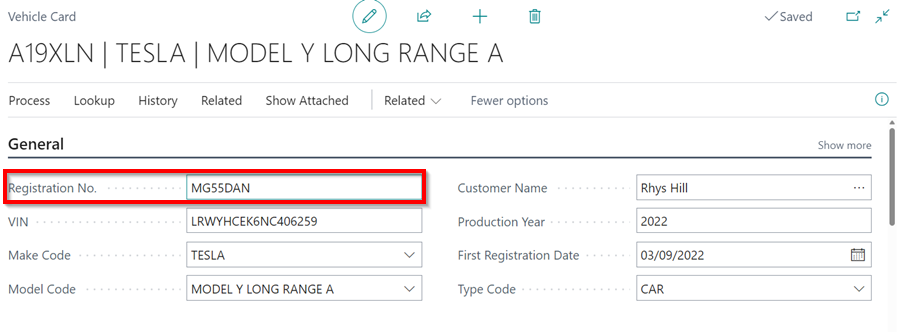
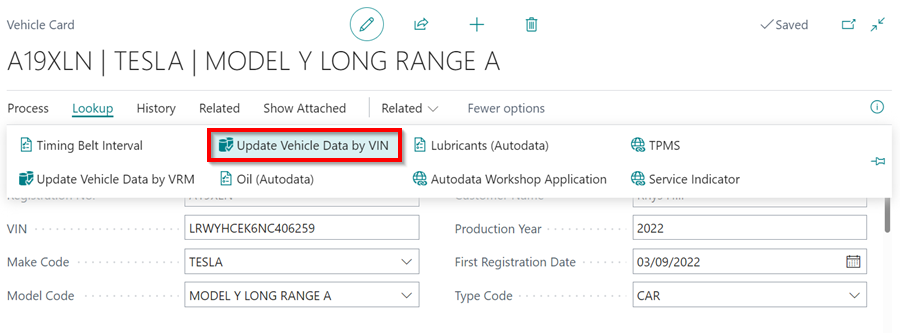
docs updated

diff --git a/docs/garagehive-change-registration-number.md b/docs/garagehive-change-registration-number.md
@@ -17,15 +17,15 @@ In Summary:
 
 ## Vehicle Changes to a New Private Plate
 When a vehicle changes to a new registration number:
-1. Open the vehicle card of the original registration plate. Change the **Registration No.** field to the **New Registration Number**.
+1. Open the vehicle card of the original registration plate. Select **Lookup** from the menu bar, and then choose**Update Vehicle Data by VIN**.
 
    ![](media/change-registration-number1.png)
 
-2. Select **Lookup** from the menu bar, and then choose**Update Vehicle Data by VRM**.
+2. If prompted to confirm the region of the vehicle registration, select from the list and click **OK**.
 
    ![](media/change-registration-number2.png)
 
-3. The vehicle history is now transferred to the new vehicle registration number.
+3. The new vehicle registration has been updated, and the vehicle history has been transferred to the new vehicle registration number.
 
 ## Private Plate Changes to a New Vehicle
 When the private plate changes to a new vehicle:
